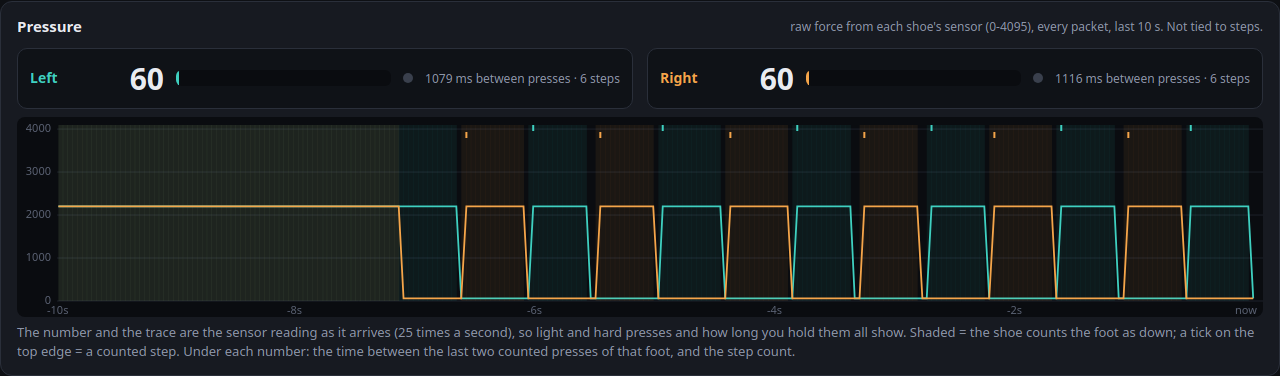
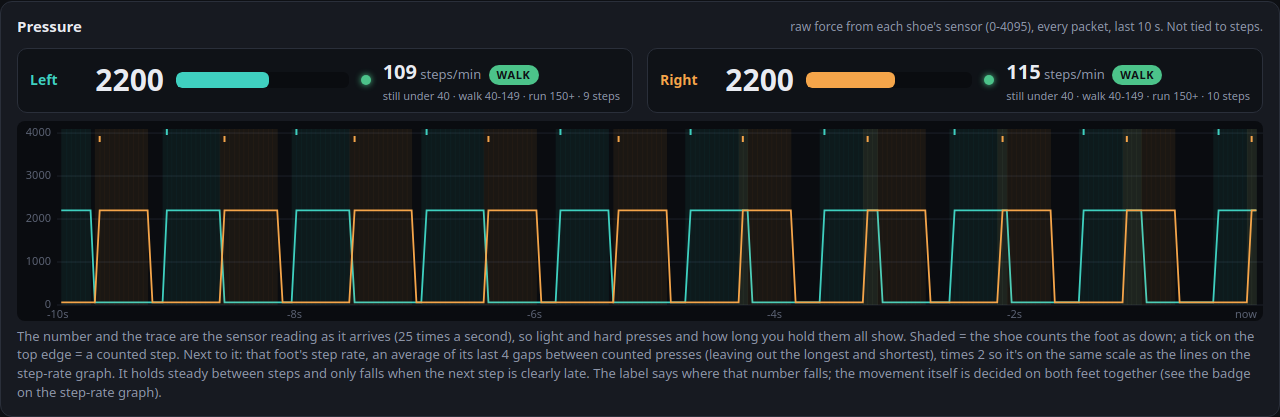
Sampler: stable per-foot steps/min (trimmed average of 4 gaps) with still/walk/run labels next to each foot

diff --git a/sampler/index.html b/sampler/index.html
@@ -90,7 +90,10 @@ canvas#rateCv{width:100%;height:230px;background:#0a0c10;border-radius:8px;displ
 .pressFoot{display:flex;align-items:center;gap:12px;background:#0f1217;border:1px solid var(--line);border-radius:10px;padding:8px 12px}
 .pressFoot .big{font-size:30px;font-weight:750;font-variant-numeric:tabular-nums;min-width:78px;text-align:right}
 .pressFoot .bar{flex:1;height:16px}
-.pressFoot .sub{font-size:12px;color:var(--mute);font-variant-numeric:tabular-nums;white-space:nowrap}
+.pressFoot .sub{display:block;font-size:11px;color:var(--mute);font-variant-numeric:tabular-nums;white-space:nowrap;margin-top:2px}
+.pressFoot .pressRate{font-size:13px;color:var(--mute);white-space:nowrap}
+.pressFoot .pressRate b{font-size:20px;color:var(--text);font-variant-numeric:tabular-nums;display:inline-block;min-width:34px;text-align:right}
+.pressFoot .pressRate .badge{margin-left:4px;font-size:11px;padding:2px 8px}
 canvas#pressCv{width:100%;height:200px;background:#0a0c10;border-radius:8px;display:block}
 /* monitor */
 .monfoot .comps{display:grid;grid-template-columns:1fr 1fr;gap:10px}
@@ -146,18 +149,20 @@ pre.log{background:#07080b;border:1px solid var(--line);border-radius:8px;height
         <span class="big" id="pressNL">-</span>
         <div class="bar"><i id="pressBarL" style="--c:var(--L)"></i></div>
         <span class="lamp" id="pressDownL" title="foot down (the shoe's step detector)"></span>
-        <span class="sub" id="pressSubL">not connected</span>
+        <span class="pressRate"><b id="pressSpmL">-</b> steps/min <span class="badge s0" id="pressZoneL">-</span>
+          <span class="sub" id="pressSubL">not connected</span></span>
       </div>
       <div class="pressFoot" id="pressR">
         <span style="color:var(--R);font-weight:700;width:44px">Right</span>
         <span class="big" id="pressNR">-</span>
         <div class="bar"><i id="pressBarR" style="--c:var(--R)"></i></div>
         <span class="lamp" id="pressDownR" title="foot down (the shoe's step detector)"></span>
-        <span class="sub" id="pressSubR">not connected</span>
+        <span class="pressRate"><b id="pressSpmR">-</b> steps/min <span class="badge s0" id="pressZoneR">-</span>
+          <span class="sub" id="pressSubR">not connected</span></span>
       </div>
     </div>
     <canvas id="pressCv"></canvas>
-    <p class="help" style="margin:6px 0 0">The number and the trace are the sensor reading as it arrives (25 times a second), so light and hard presses and how long you hold them all show. Shaded = the shoe counts the foot as down; a tick on the top edge = a counted step. Under each number: the time between the last two counted presses of that foot, and the step count.</p>
+    <p class="help" style="margin:6px 0 0">The number and the trace are the sensor reading as it arrives (25 times a second), so light and hard presses and how long you hold them all show. Shaded = the shoe counts the foot as down; a tick on the top edge = a counted step. Next to it: that foot's step rate, an average of its last 4 gaps between counted presses (leaving out the longest and shortest), times 2 so it's on the same scale as the lines on the step-rate graph. It holds steady between steps and only falls when the next step is clearly late. The label says where that number falls; the movement itself is decided on both feet together (see the badge on the step-rate graph).</p>
   </section>
 
   <section class="panel full" id="ratePanel">
@@ -293,7 +298,7 @@ function ingest(id, d, src, rawLine){
   if (fd.d && ((d.spins - fd.spins + 256) % 256)) logEvent(id, `${FOOT_NAME[id]} shoe says: 360 SPIN`);
   if (fd.d && det.isLive(id, now) && ((d.steps - fd.steps + 65536) % 65536)){
     stepMarks.push({t:now, id});
-    logEvent(id, `${FOOT_NAME[id]} step #${d.steps} (pressure ${d.fsr}` + (d.stepMs ? `, ${d.stepMs} ms after this foot's last step = ${Math.round(120000 / d.stepMs)} steps/min on the graph)` : ', first step after a pause)'));
+    logEvent(id, `${FOOT_NAME[id]} step #${d.steps} (pressure ${d.fsr}` + (d.stepMs ? `, ${d.stepMs} ms after this foot's last step)` : ', first step after a pause)'));
   }
   det.ingest(id, d, now);
 }
@@ -865,14 +870,18 @@ async function sendCmd(text){
 // ===================== raw pressure =====================
 const PRESS_MS = 10000;
 function drawPressure(now){
+  const r = det.rates(now);
   for (const id of ['L','R']){
     const f = feet[id], d = f.d, live = isLive(f, now);
     $('pressN'+id).textContent = live ? d.fsr : '-';
     $('rateP'+id).textContent = live ? d.fsr : '-';
     $('pressBar'+id).style.width = (live ? clamp(d.fsr / 4095, 0, 1) * 100 : 0) + '%';
     $('pressDown'+id).className = 'lamp' + (live && (d.flags & 2) ? ' on' : '');
+    const spm = live ? r[id] : 0, zone = det.rateZone(spm), T = det.T;
+    $('pressSpm'+id).textContent = live ? Math.round(spm) : '-';
+    const z = $('pressZone'+id); z.textContent = live ? zone.toUpperCase() : '-'; z.className = 'badge s' + (live ? {still:0, walk:1, run:2}[zone] : 0);
     $('pressSub'+id).textContent = !live ? (f.lastLive ? 'stopped sending' : 'not connected')
-      : `${d.stepMs ? d.stepMs + ' ms between presses' : 'no press interval yet'} · ${d.steps} steps`;
+      : `still under ${T.WALK_MIN_SPM} · walk ${T.WALK_MIN_SPM}-${T.RUN_SPM - 1} · run ${T.RUN_SPM}+ · ${d.steps} steps`;
   }
   const cv = $('pressCv'), w = cv.clientWidth, h = cv.clientHeight; if (!w) return;
   const dpr = window.devicePixelRatio || 1;

diff --git a/sampler/movements.js b/sampler/movements.js
@@ -27,7 +27,9 @@ const TUNING = {
   // (a person walks at ~100-120, runs at ~150-180). With one shoe, that foot's rate x 2.
   RUN_SPM: 150,                 // this fast or faster = running (the graph's slider changes it)
   RUN_HYST_SPM: 10,             // must drop this far under RUN_SPM to go back to walking
-  RATE_STEPS: 4,                // the both-feet rate uses the last this many steps (3 gaps)
+  FOOT_RATE_GAPS: 4,            // each foot's rate averages its last this many gaps between steps
+  FOOT_STOP_MS: 3000,           // a foot's rate starts fresh after a gap this long (one missed step is shorter)
+  RATE_LATE: 1.5,               // the rate only starts falling once the next step is this many average gaps late
   WALK_MIN_SPM: 40,             // slowest rate that still counts as walking (= TURN_MAX_MS 1500)
 
   SPIN_TOGETHER_MS: 1200,       // both feet spinning this close together = one spin
@@ -117,7 +119,7 @@ class MovementDetector {
   reset(){
     this.feet = {L:newFoot('L'), R:newFoot('R')};
     this.lastStep = null; this.turns = [];
-    this.stepTimes = {L:[], R:[], both:[]};
+    this.stepTimes = {L:[], R:[]};
     this.running = false;
     this.seq = 0;
     this.current = {key:'still', why:'start', since:0, isEvent:false, id:0};
@@ -269,34 +271,37 @@ class MovementDetector {
 
   // ---------- step rate (steps per minute), from the pressure sensors' steps ----------
   _recordStepTime(id, t){
-    const T = this.T, add = (list, max) => {
-      if (list.length && t - list[list.length - 1] > T.STOP_MS) list.length = 0;   // a pause starts fresh
-      list.push(t);
-      while (list.length > max) list.shift();
-    };
-    add(this.stepTimes[id], 3);   // like the shoe: the average of this foot's last two gaps
-    const both = this.stepTimes.both;
-    // both feet landing together (a jump) is one step for the rate, not two
-    if (!(both.length && t - both[both.length - 1] < T.TURN_MIN_MS)) add(both, T.RATE_STEPS);
+    const list = this.stepTimes[id];
+    if (list.length && t - list[list.length - 1] > this.T.FOOT_STOP_MS) list.length = 0;   // a pause starts fresh
+    list.push(t);
+    while (list.length > this.T.FOOT_RATE_GAPS + 1) list.shift();
   }
 
-  // Rate from a list of step times. It falls when the next step is late, and is 0 after STOP_MS.
+  // Rate from a list of step times: the average gap, leaving out the longest and shortest
+  // once there are 4+, so one missed or extra step barely moves it. It holds steady until the
+  // next step is RATE_LATE gaps late, then falls, and is 0 after FOOT_STOP_MS.
   _rate(times, now){
     const n = times.length;
     if (n < 2) return 0;
     const since = now - times[n - 1];
-    if (since > this.T.STOP_MS) return 0;
-    const gap = (times[n - 1] - times[0]) / (n - 1);
-    return 60000 / Math.max(gap, since);
+    if (since > this.T.FOOT_STOP_MS) return 0;
+    const gaps = [];
+    for (let i = 1; i < n; i++) gaps.push(times[i] - times[i - 1]);
+    gaps.sort((a, b) => a - b);
+    const use = gaps.length >= 4 ? gaps.slice(1, -1) : gaps;
+    const gap = use.reduce((a, b) => a + b, 0) / use.length;
+    return 60000 / Math.max(gap, since / this.T.RATE_LATE);
   }
+  // still / walk / run for one number on the steps/min scale (no hysteresis; for labels)
+  rateZone(spm){ return spm < this.T.WALK_MIN_SPM ? 'still' : spm >= this.T.RUN_SPM ? 'run' : 'walk'; }
 
-  // L and R: each foot's own rate x 2 (so they're on the same scale as both feet together).
-  // both: all steps of both feet. used: the number walk/run is decided on.
+  // L and R: each foot's own rate x 2 (so they're on the same steps/min scale as both feet together).
+  // both: the average of the two (with one shoe, that shoe's). used: the number walk/run is decided on.
   rates(now){
     const live = {L:this.isLive('L', now), R:this.isLive('R', now)};
     const L = live.L ? 2 * this._rate(this.stepTimes.L, now) : 0;
     const R = live.R ? 2 * this._rate(this.stepTimes.R, now) : 0;
-    const both = live.L && live.R ? this._rate(this.stepTimes.both, now) : (live.L ? L : R);
+    const both = live.L && live.R ? (L + R) / 2 : (live.L ? L : R);
     return {L, R, both, used:both, live};
   }
   runFrom(){ return this.running ? this.T.RUN_SPM - this.T.RUN_HYST_SPM : this.T.RUN_SPM; }

diff --git a/tests/movement_test/movement_test.js b/tests/movement_test/movement_test.js
@@ -99,6 +99,21 @@ for (const [per, want] of [[1100, 'walk'], [700, 'run']]){
   const s = new Scene('L'); stepping(s, per, 5000); const r = s.det.rates(s.t);
   console.log(`        left shoe only, ${per} ms per foot: used=${r.used.toFixed(0)}`);
   check(s.now() === want, `one shoe only: its own rate x 2 decides (${want.toUpperCase()})`); }
+{ // uneven walking: each step 1100 ms +-15%, and the sensor misses 1 step in 12
+  let seed = 7; const rnd = () => (seed = (seed * 16807) % 2147483647) / 2147483647;
+  const s = new Scene(), next = {L:s.t + 100, R:s.t + 650}; let k = 0; const t0 = s.t, both = [], foot = [];
+  s.run(30000, t => {
+    for (const id of ['L','R']){ const f = s[id];
+      if (t >= next[id] - 500 && f.down) f.lift(t);
+      if (t >= next[id]){ if ((k++ % 12) !== 5) f.land(t); else f.down = true; next[id] = t + 1100 * (0.85 + 0.3 * rnd()); }
+      if (f.steps >= 2) f.state = 1; }
+    if (t % 40 === 0 && t > t0 + 6000){ const r = s.det.rates(t); both.push(r.both); foot.push(r.L); }
+  });
+  const range = a => { a = [...a].sort((x, y) => x - y); return [a[Math.floor(a.length * 0.05)], a[Math.floor(a.length * 0.95)]]; };
+  const [b0, b1] = range(both), [f0, f1] = range(foot);
+  console.log(`        uneven walking: both feet ${b0.toFixed(0)}-${b1.toFixed(0)}, left ${f0.toFixed(0)}-${f1.toFixed(0)} steps/min (90% of the time)`);
+  check(b0 > 85 && b1 < 125 && f0 > 85 && f1 < 125, 'uneven walking with missed steps: the rate stays steady (within ~85-125)');
+  check(!s.has('run'), 'and never RUN'); }
 { const s = new Scene(); const t0 = s.t;
   s.run(1500, t => { if (t === t0 + 100) { s.L.lift(t); s.R.lift(t); } if (t === t0 + 420) { s.L.land(t); s.R.land(t); } });
   check(s.det.rates(s.t).both < 60, 'a jump (both feet landing together) does not look like fast steps'); }
@@ -106,11 +121,11 @@ for (const [per, want] of [[1100, 'walk'], [700, 'run']]){
   let cyc = 0; const ms = switchTime(s, 'run', t => { cyc += 10; const p = cyc % 700, q = (cyc + 350) % 700;
     if (p === 380) s.L.lift(t); if (p === 0) s.L.land(t); if (q === 380) s.R.lift(t); if (q === 0) s.R.land(t); });
   console.log(`        walk (109/min) -> run (171/min): RUN after ${ms} ms`);
-  check(ms !== null && ms < 1600, 'walk to run switches within ~1.5 s');
+  check(ms !== null && ms < 2800, 'walk to run switches within ~2.5 s (about 3 fast steps per foot)');
   const back = switchTime(s, 'walk', t => { cyc += 10; const p = cyc % 1100, q = (cyc + 550) % 1100;
     if (p === 600) s.L.lift(t); if (p === 0) s.L.land(t); if (q === 600) s.R.lift(t); if (q === 0) s.R.land(t); });
   console.log(`        run -> walk: WALK after ${back} ms`);
-  check(back !== null && back < 2500, 'run to walk switches within ~2.5 s');
+  check(back !== null && back < 2800, 'run to walk switches within ~2.5 s');
   s.L.land(s.t); s.R.land(s.t);
   const stop = switchTime(s, 'still', () => {});
   console.log(`        walk -> stop: STILL ${stop} ms after the last step`);

diff --git a/README.md b/README.md
@@ -134,7 +134,7 @@ The **Step rate** panel draws steps per minute over the last 30 s: left (teal), 
 
 **Drag the red line** up or down (or use the **Run from** slider) to set where running starts. It works right away and is saved in this browser; **Reset** puts it back to 150. To go back to walking the rate has to drop 10 below the line, so it doesn't flicker when you're right on it.
 
-How the rate is worked out: with both shoes, from the last 4 steps of either foot (3 gaps); with one shoe, from that shoe's last 3 steps (2 gaps), times 2. If the next step is late the rate drops, and after 2 s with no step it's 0. Both feet landing together (a jump) counts as one step. Expect RUN about 1.5 s after you speed up, WALK under 1 s after you slow down, and STILL about 2 s after the last step.
+How the rate is worked out: each foot's rate is the average of its last 4 gaps between counted presses, leaving out the longest and shortest (so one missed or extra step barely moves it), times 2. With both shoes the two are averaged. It holds steady between steps and only falls once the next step is 1.5 gaps late. The Pressure panel shows each foot's rate in steps/min with a STILL / WALK / RUN label and the lines (still under 40, run from the red line). Expect RUN about 2.5 s after you speed up, WALK about 2 s after you slow down, and STILL about 2 s after the last step.
 
 No shoes yet? Click **Test** on any slot to pretend that movement happened. With `DEMO_MODE 1` in `config.h`, a shoe with no sensors makes up still, walk, run, spin, each pose and each one-foot event, 3 seconds each.
 
